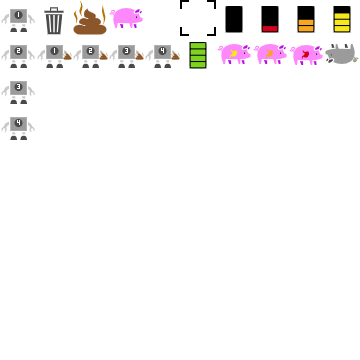
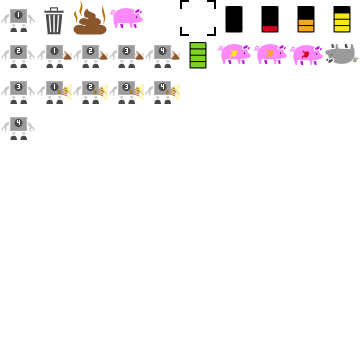
all images are in, and ready to be put into the game tomorrow.

Changed region(s): [[0.0917, 0.2139, 0.5194, 0.3056]]

diff --git a/README.md b/README.md
@@ -22,3 +22,5 @@ https://game-icons.net/1x1/priorblue/battery-50.html
 https://game-icons.net/1x1/priorblue/battery-75.html
 https://game-icons.net/1x1/priorblue/battery-100.html
 https://game-icons.net/1x1/delapouite/stomach.html
+https://game-icons.net/1x1/delapouite/grain.html
+https://game-icons.net/1x1/delapouite/grain-bundle.html
